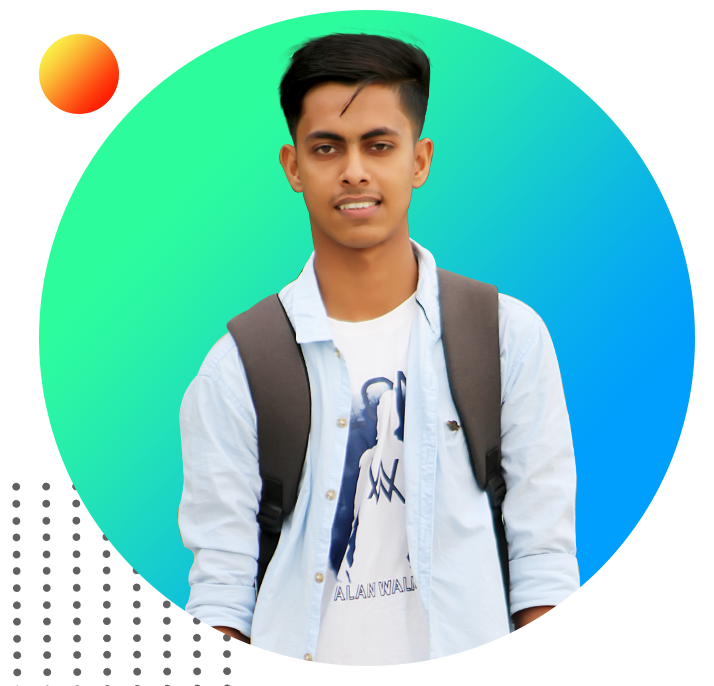
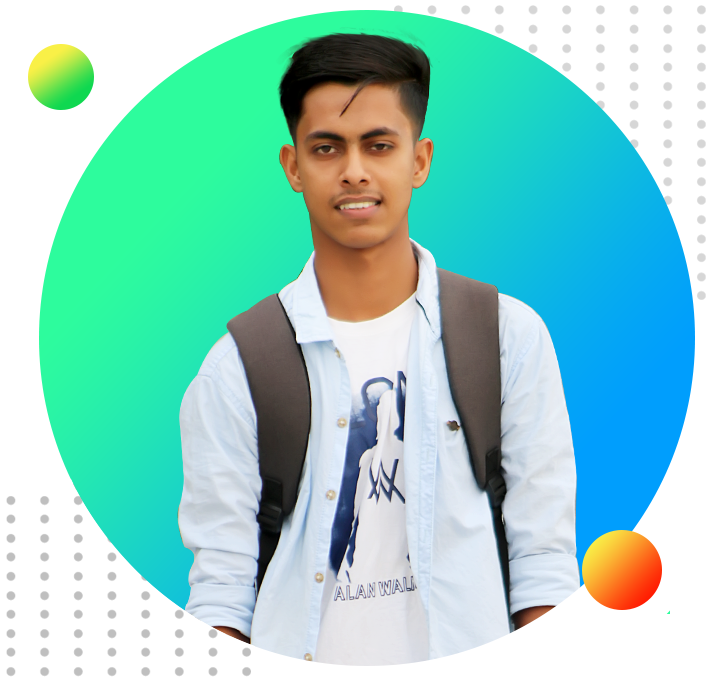
publishing site

diff --git a/index.html b/index.html
@@ -1,0 +1,55 @@
+<!DOCTYPE html>
+<html lang="en">
+<head>
+    <meta charset="UTF-8">
+    <meta name="viewport" content="width=device-width, initial-scale=1.0">
+    <title>Habib Web Developer</title>
+    <link href="https://fonts.googleapis.com/css2?family=Open+Sans:wght@400;700&display=swap" rel="stylesheet">
+    <link rel="stylesheet" href="style.css">
+</head>
+<body>
+    <section class="top-banner">
+       <div class="half-width">
+        <h1>Welcome To</h1>
+        <h1> <span class="name-highlight">Habib </span> Web World</h1>
+        <h3>World Class Professional Web Developer</h3>
+        <p>Hello there! I am Habibur Rahman. I am a Full Stack Web Developer. I started working in web development section from the year 2020. I love to learn new technology related topic everyday. I am now specialized in fixing front-end and Back-end web design and development issues.</p>
+        <a href="https://www.linkedin.com/in/habibur-rahman-00521418a/" target="_blank" class="link-button">HIRE ME</a>
+       </div>
+       <div class="half-width">
+           <img src="./images/habib-one.png" alt="">
+       </div>
+    </section>
+    
+    <section class="dream-big">
+        <div class="half-width">
+            <img src="./images/habib-two.png" alt="">
+        </div>
+
+        <div class="half-width">
+            <h2>Dream Big</h2>
+            <h3>Become World's No. 1 Developer</h3>
+            <p>I already learned the basic HTML and CSS. I can build any simple website. I can even teach my grandma how to make simple website. My goal is to build 3 websites and learn advanced topics.</p>
+            <a href="https://web.facebook.com/habib4224287" target="_blank" class="link-button">VISIT MY FACEBOOK</a>
+        </div>
+    </section>
+    
+    <section class="experience-area">
+        <h2>Experiences</h2>
+        <div id="full-stack" class="half-width single-experience">
+            <h2>Full Stack Web Developer</h2>
+            <h3  class="orange-highlight">2021-Present | Pro Level Developer</h3>
+            <p>I am the master of HTML, CSS and Javascript. I know everything needed to make a website function, efficient. I didn't stop with the web. I went beyond with most popular Javascript framework called Vue JS. I even know the deployment, server and security. I will give you 100% web solution.</p>
+    </div>
+
+        <div id="baby-web" class="half-width single-experience">
+            <h2>Baby Web Developer</h2>
+            <h3  class="orange-highlight">2020-2021 | Programming Hero Learner</h3>
+            <p>They didn't offer me a job. But I made myself as a remove web developer. I made their website and showed it to them. They liked it. And uploaded the content. It was fun working at Programming Hero.</p>
+        </div>
+    </section>
+    <footer>
+        <p>© Habib 2021, a Programming Hero initiative.</p>
+    </footer>
+</body>
+</html>

diff --git a/style.css b/style.css
@@ -1,0 +1,82 @@
+body{
+    font-family: 'Open Sans', sans-serif;
+    margin: 0;
+}
+h1{
+    font-size: 50px;
+    
+}
+.name-highlight{
+    color: orange;
+}
+.half-width{
+    float: left;
+    width: 40%;
+    margin-left: 5%;
+    padding-left: 2%;
+}
+.half-width img{
+    width: 100%;
+}
+.top-banner{
+    background-image: url(images/banner.jpg);
+    background-repeat: no-repeat;
+}
+section{
+    height: 500px;
+    padding-bottom: 150px;
+}
+h2{
+    font-size: 40px;
+}
+.link-button{
+    text-decoration: none;
+    background-image: linear-gradient(45deg,#ff5d18, #ff1600);
+    padding: 10px 20px;
+    border-radius: 8px;
+    color: white;
+    font-weight: 700;
+    transition: all linear 0.5s;
+}
+.link-button:hover{
+    background-image: linear-gradient(45deg,#0fd850, #e6da00);
+}
+.dream-big{
+    background-image: url(./images/assetone.png);
+    background-repeat: no-repeat;
+    background-position: right;
+}
+p{
+    color: dimgray;
+}
+.orange-highlight{
+    color: orange;
+}
+.single-experience{
+    box-shadow: 10px 10px 40px gray;
+    border-radius: 5px;
+}
+.experience-area{
+    background-image: url(./images/assettwo.png);
+    background-repeat: no-repeat;
+    background-position: left;
+}
+.experience-area div{
+    height: 80%;
+}
+#full-stack{
+    border-left: 7px solid;
+    border-image: linear-gradient(180deg,#0fd850, #faf03a);
+   
+    border-image-slice: 1;
+}
+#baby-web{
+    border-left: 7px solid;
+    border-image: linear-gradient(180deg, blue, cyan);
+    border-image-slice: 1;
+
+}
+footer p{
+    text-align: center;
+    font-size: 12px;
+}
